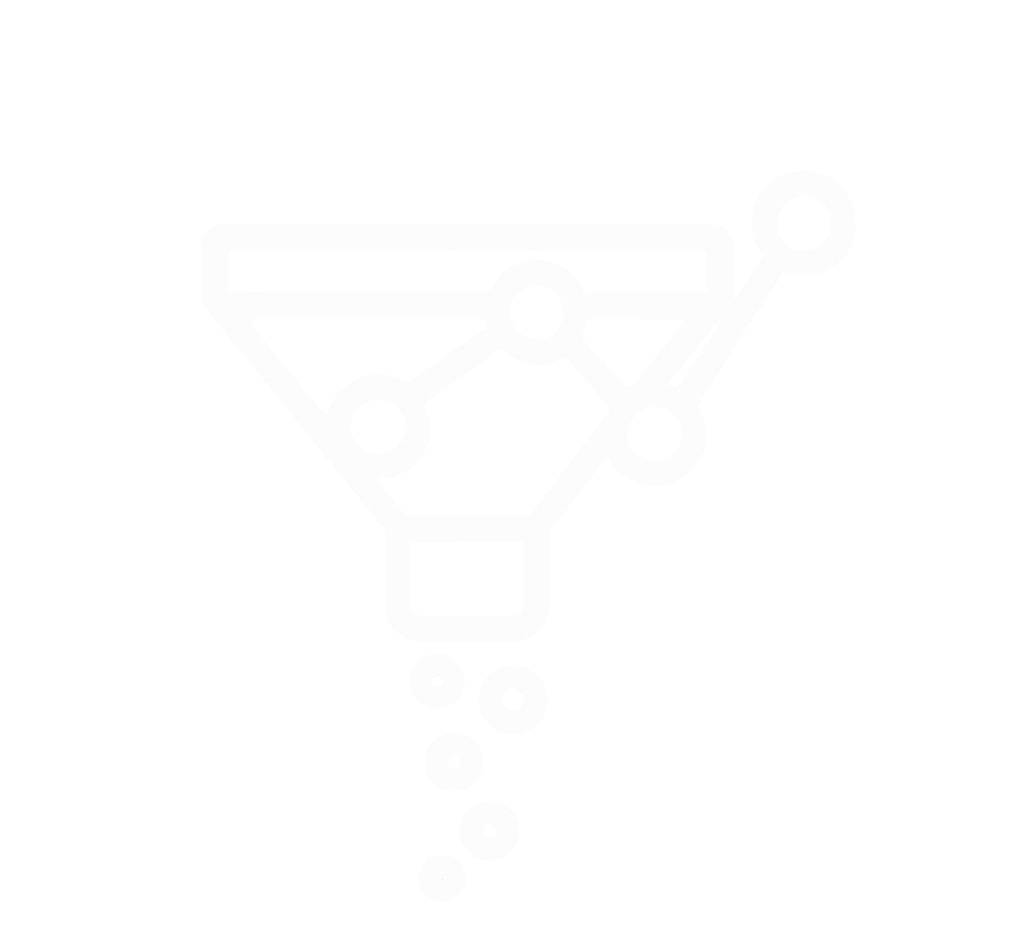
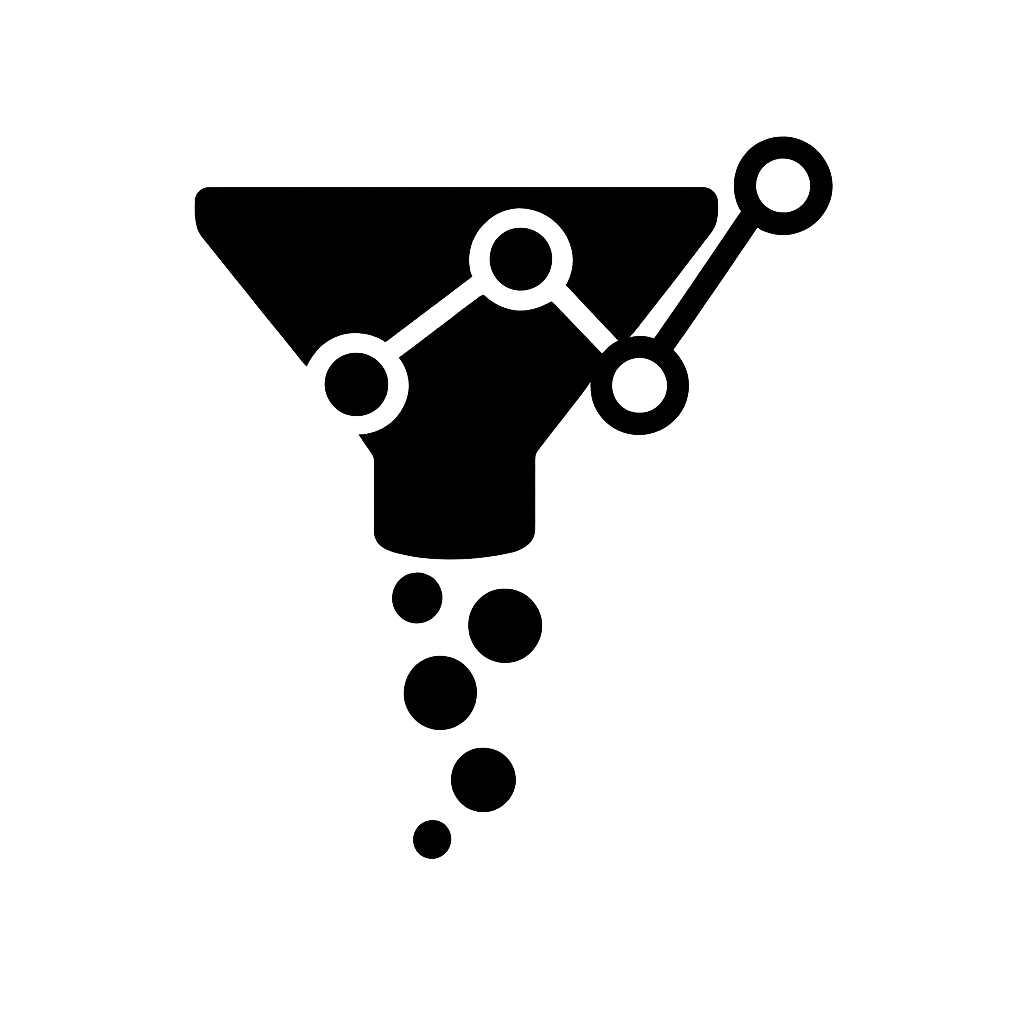
Update Icone sidebar-zs

Changed region(s): [[0.1831, 0.123, 0.8238, 0.8611]]

diff --git a/components/app-sidebar.tsx b/components/app-sidebar.tsx
@@ -165,7 +165,7 @@ export function AppSidebar({ children }: AppSidebarProps) {
         title: "Diário Semanal",
         iconPath: `${ICON_BASE}/Diario-Semanal.png`,
         href: "/dashboard/diary",
-        size: 35,
+        size: 40,
         offsetX: 6,
         offsetY: 0,
       },
@@ -192,7 +192,7 @@ export function AppSidebar({ children }: AppSidebarProps) {
         title: "Funnel's",
         iconPath: `${ICON_BASE}/mindmap.png`,
         href: "/dashboard/mindmap",
-        size: 44,
+        size: 58,
         offsetX: 2,
         offsetY: 0,
       },
@@ -201,7 +201,7 @@ export function AppSidebar({ children }: AppSidebarProps) {
         title: "IA's",
         iconPath: `${ICON_BASE}/ias.png`,
         href: "/dashboard/ai",
-        size: 40,
+        size: 48,
         offsetX: 5,
         offsetY: 0,
       },
@@ -210,7 +210,7 @@ export function AppSidebar({ children }: AppSidebarProps) {
         title: "Copywriting",
         iconPath: `${ICON_BASE}/copywriting.png`,
         href: "/dashboard/copywriting",
-        size: 35,
+        size: 40,
         offsetX: 9,
         offsetY: 0,
       },
@@ -360,7 +360,6 @@ export function AppSidebar({ children }: AppSidebarProps) {
                 const size = Math.round(baseSize * scaleFactor)
                 const x = item.offsetX ?? 0
                 const y = item.offsetY ?? 0
-                const isMindmap = item.id === "mindmap"
 
                 return (
                   <div
@@ -405,18 +404,13 @@ export function AppSidebar({ children }: AppSidebarProps) {
                             justifyContent: "center",
                           }}
                         >
+                          {/* 🔥 AQUI AJUSTA A COR DO ÍCONE (MINDMAP INCLUÍDO) */}
                           <Image
                             src={item.iconPath}
                             alt={item.title}
                             fill
                             className={`object-contain ${
-                              theme === "dark"
-                                ? isMindmap
-                                  ? ""
-                                  : "invert"
-                                : isMindmap
-                                  ? "invert"
-                                  : ""
+                              theme === "dark" ? "invert" : ""
                             }`}
                             style={{ objectPosition: "center" }}
                           />
